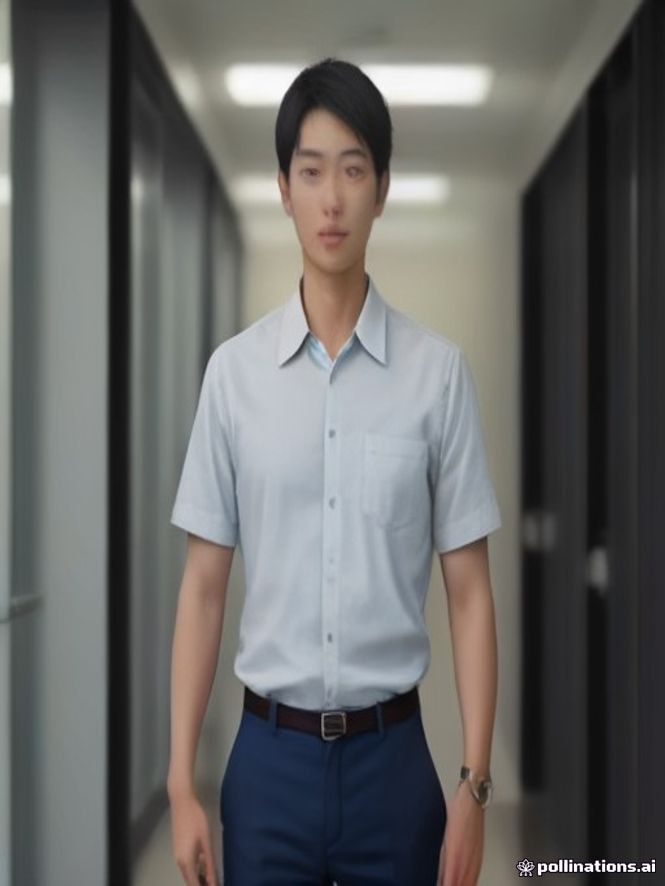
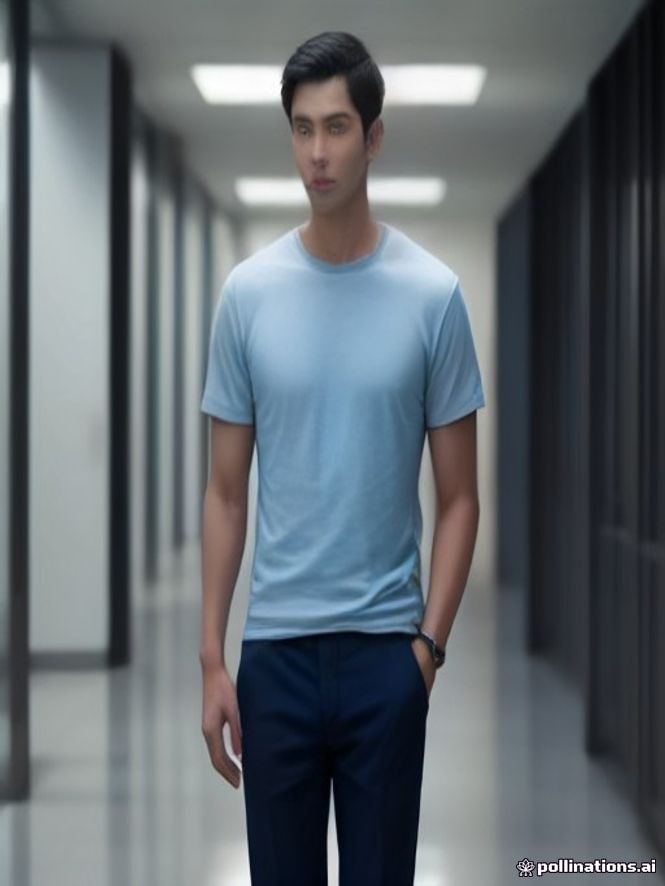
每日穿搭 2026-09-15

diff --git a/outfit-agent/output/2026-09-15-今日穿搭.md b/outfit-agent/output/2026-09-15-今日穿搭.md
@@ -1,0 +1,26 @@
+# 今日穿搭 (2026-09-15)
+
+## 今日行程
+- **场合**：上班
+- **会见**：同事和客户
+
+## 天气
+- **城市**：广州
+- **天气**：Patchy rain nearby，气温25-34°C，当前27°C，湿度79%，风速9km/h
+
+## 🧕 穿搭分析
+广州夏季闷热潮湿，27°C且湿度79%，有阵雨，需要透气速干、凉爽舒适的穿搭。场合是上班见同事和客户，需兼顾专业与舒适。用户高瘦偏白，喜欢简约休闲混搭，偏好蓝绿色系，怕热易出汗，腿型需修饰。推荐麻质老钱风尝试，用亚麻衬衫和垂感休闲西裤打造清凉有质感的商务休闲造型。
+
+## 👕 推荐搭配
+| 类别 | 建议 |
+|------|------|
+| 上装 | 浅蓝色亚麻长袖衬衫，卷起袖口，内搭白色速干圆领T恤 |
+| 下装 | 藏蓝色垂感直筒休闲西裤，九分长度，修饰腿型 |
+| 鞋子 | 深蓝色麂皮乐福鞋或白色简约皮质休闲鞋 |
+| 配饰 | 棕色皮质表带手表，墨绿色编织腰带，深灰简约双肩包 |
+
+## ✨ 总结
+浅蓝亚麻衬衫配藏蓝直筒西裤，清爽透气又显专业，轻松应对闷热阵雨天。
+
+---
+*由穿搭助手自动生成于 2026-09-15 10:08*
